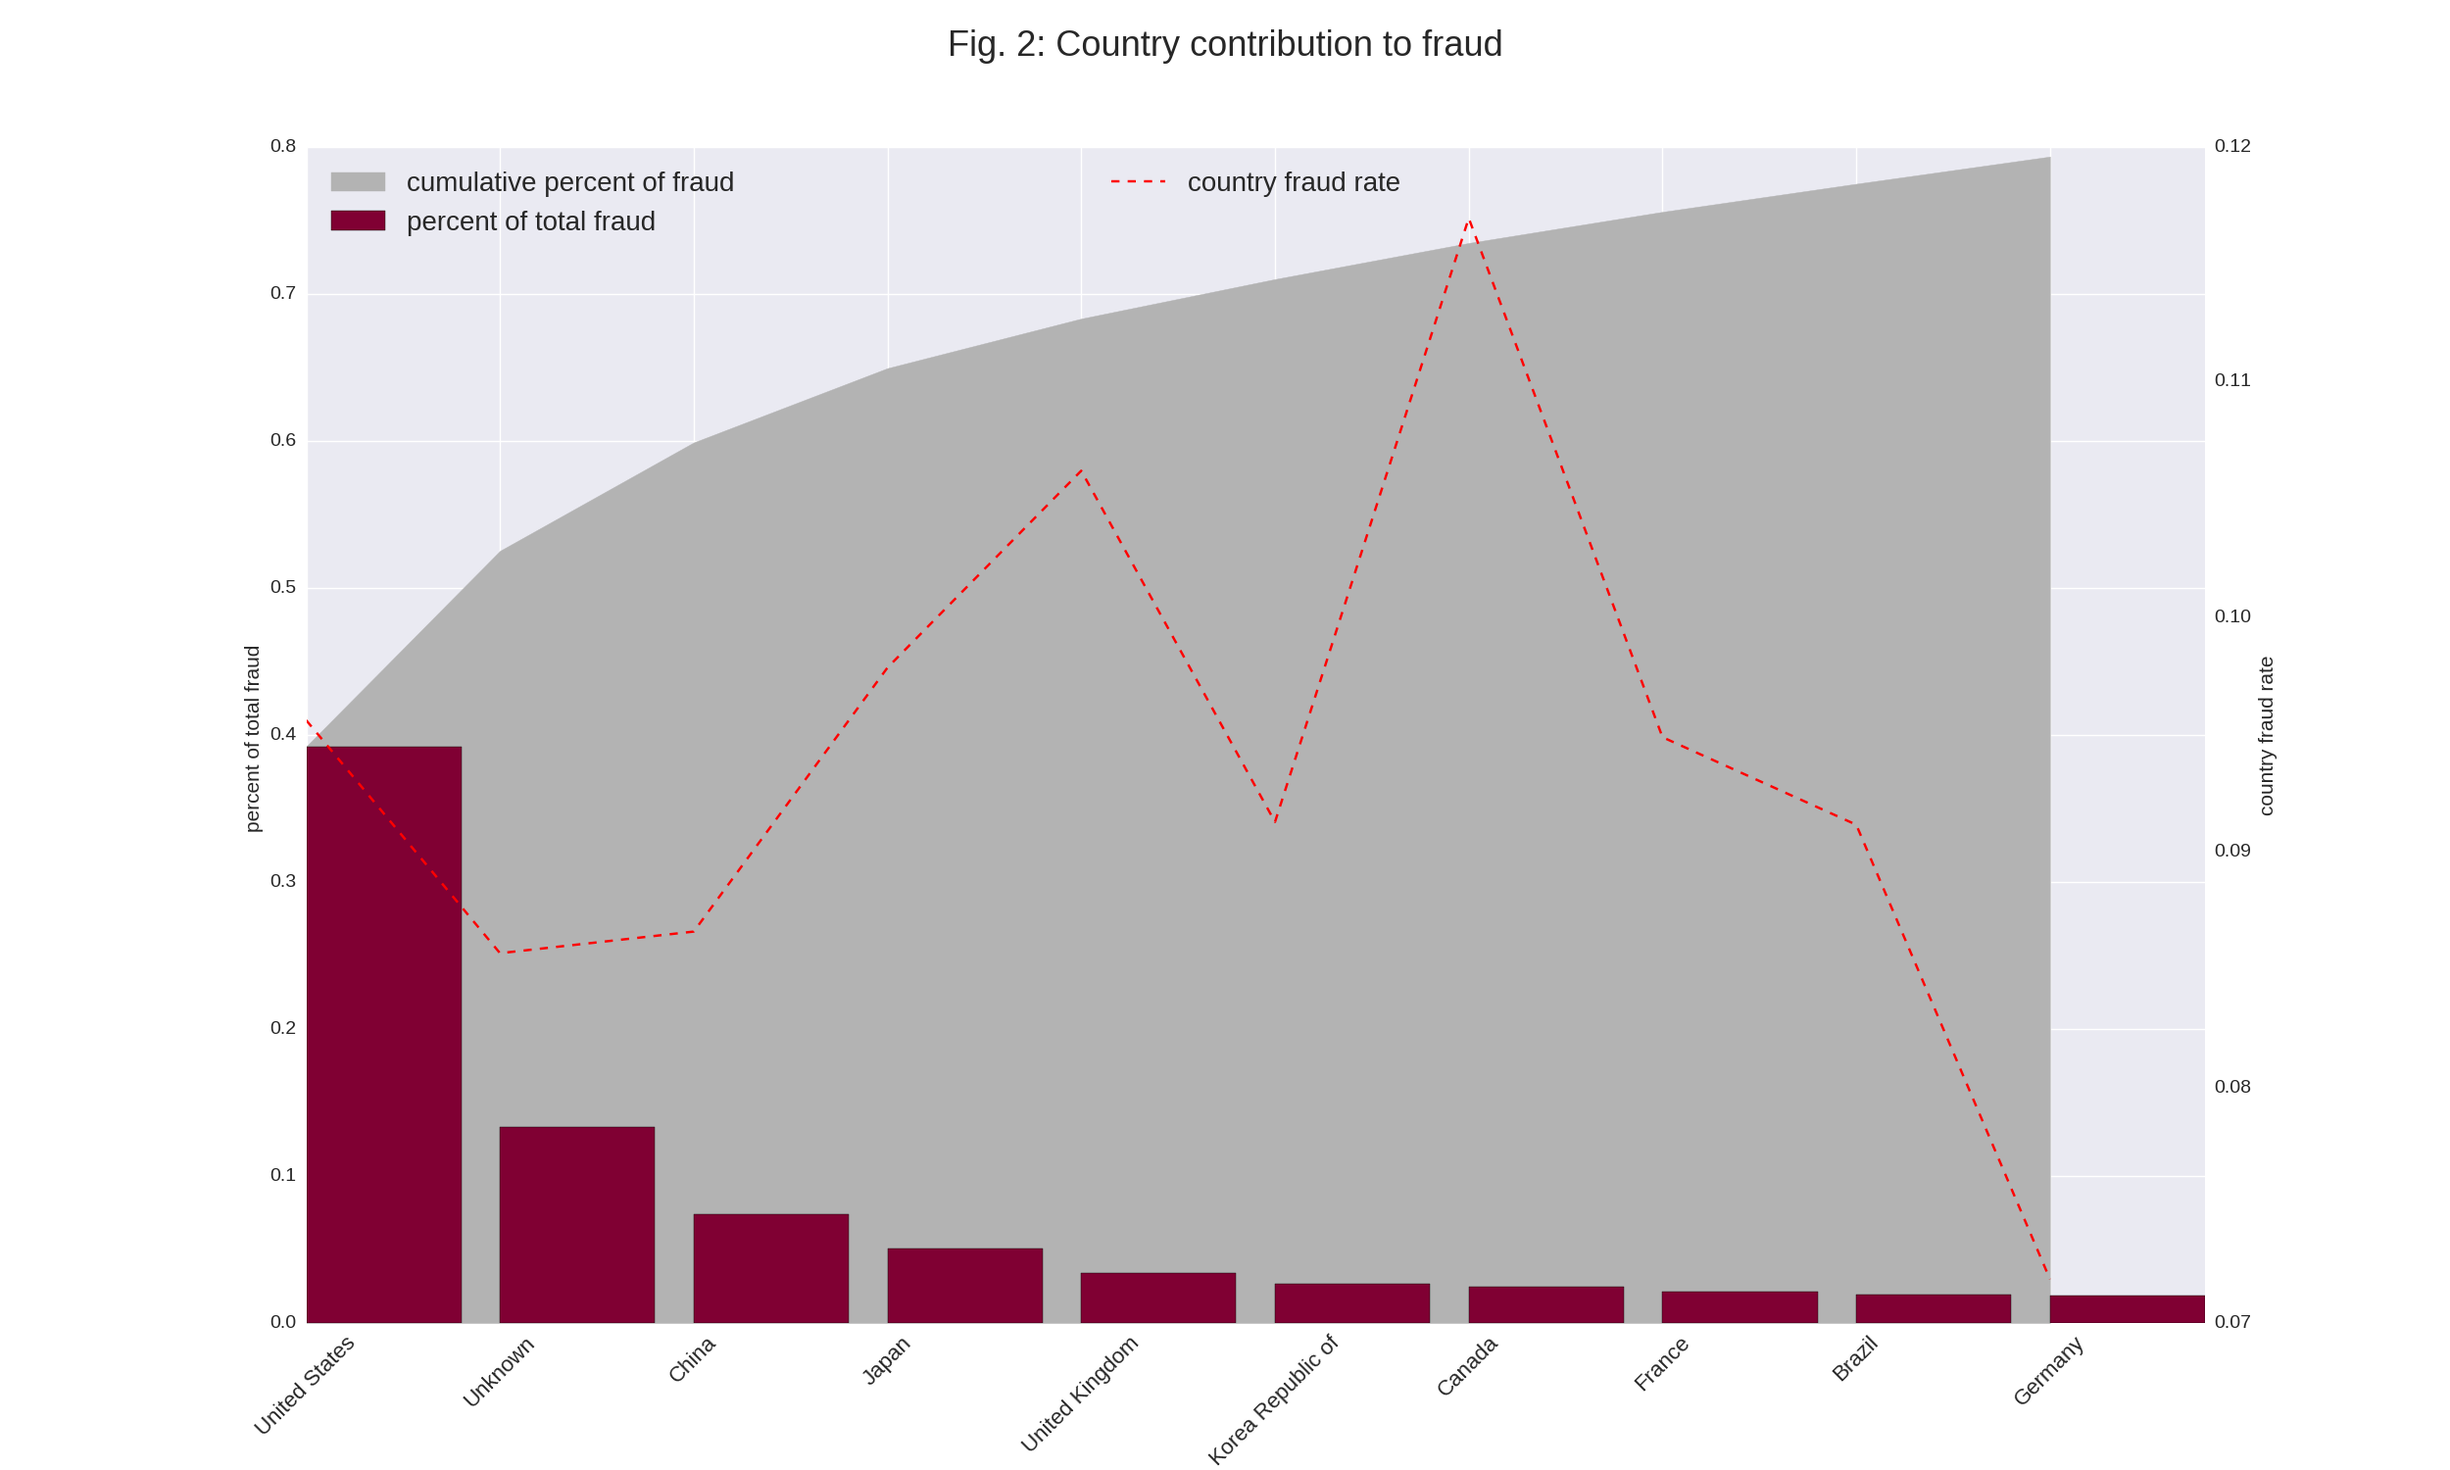
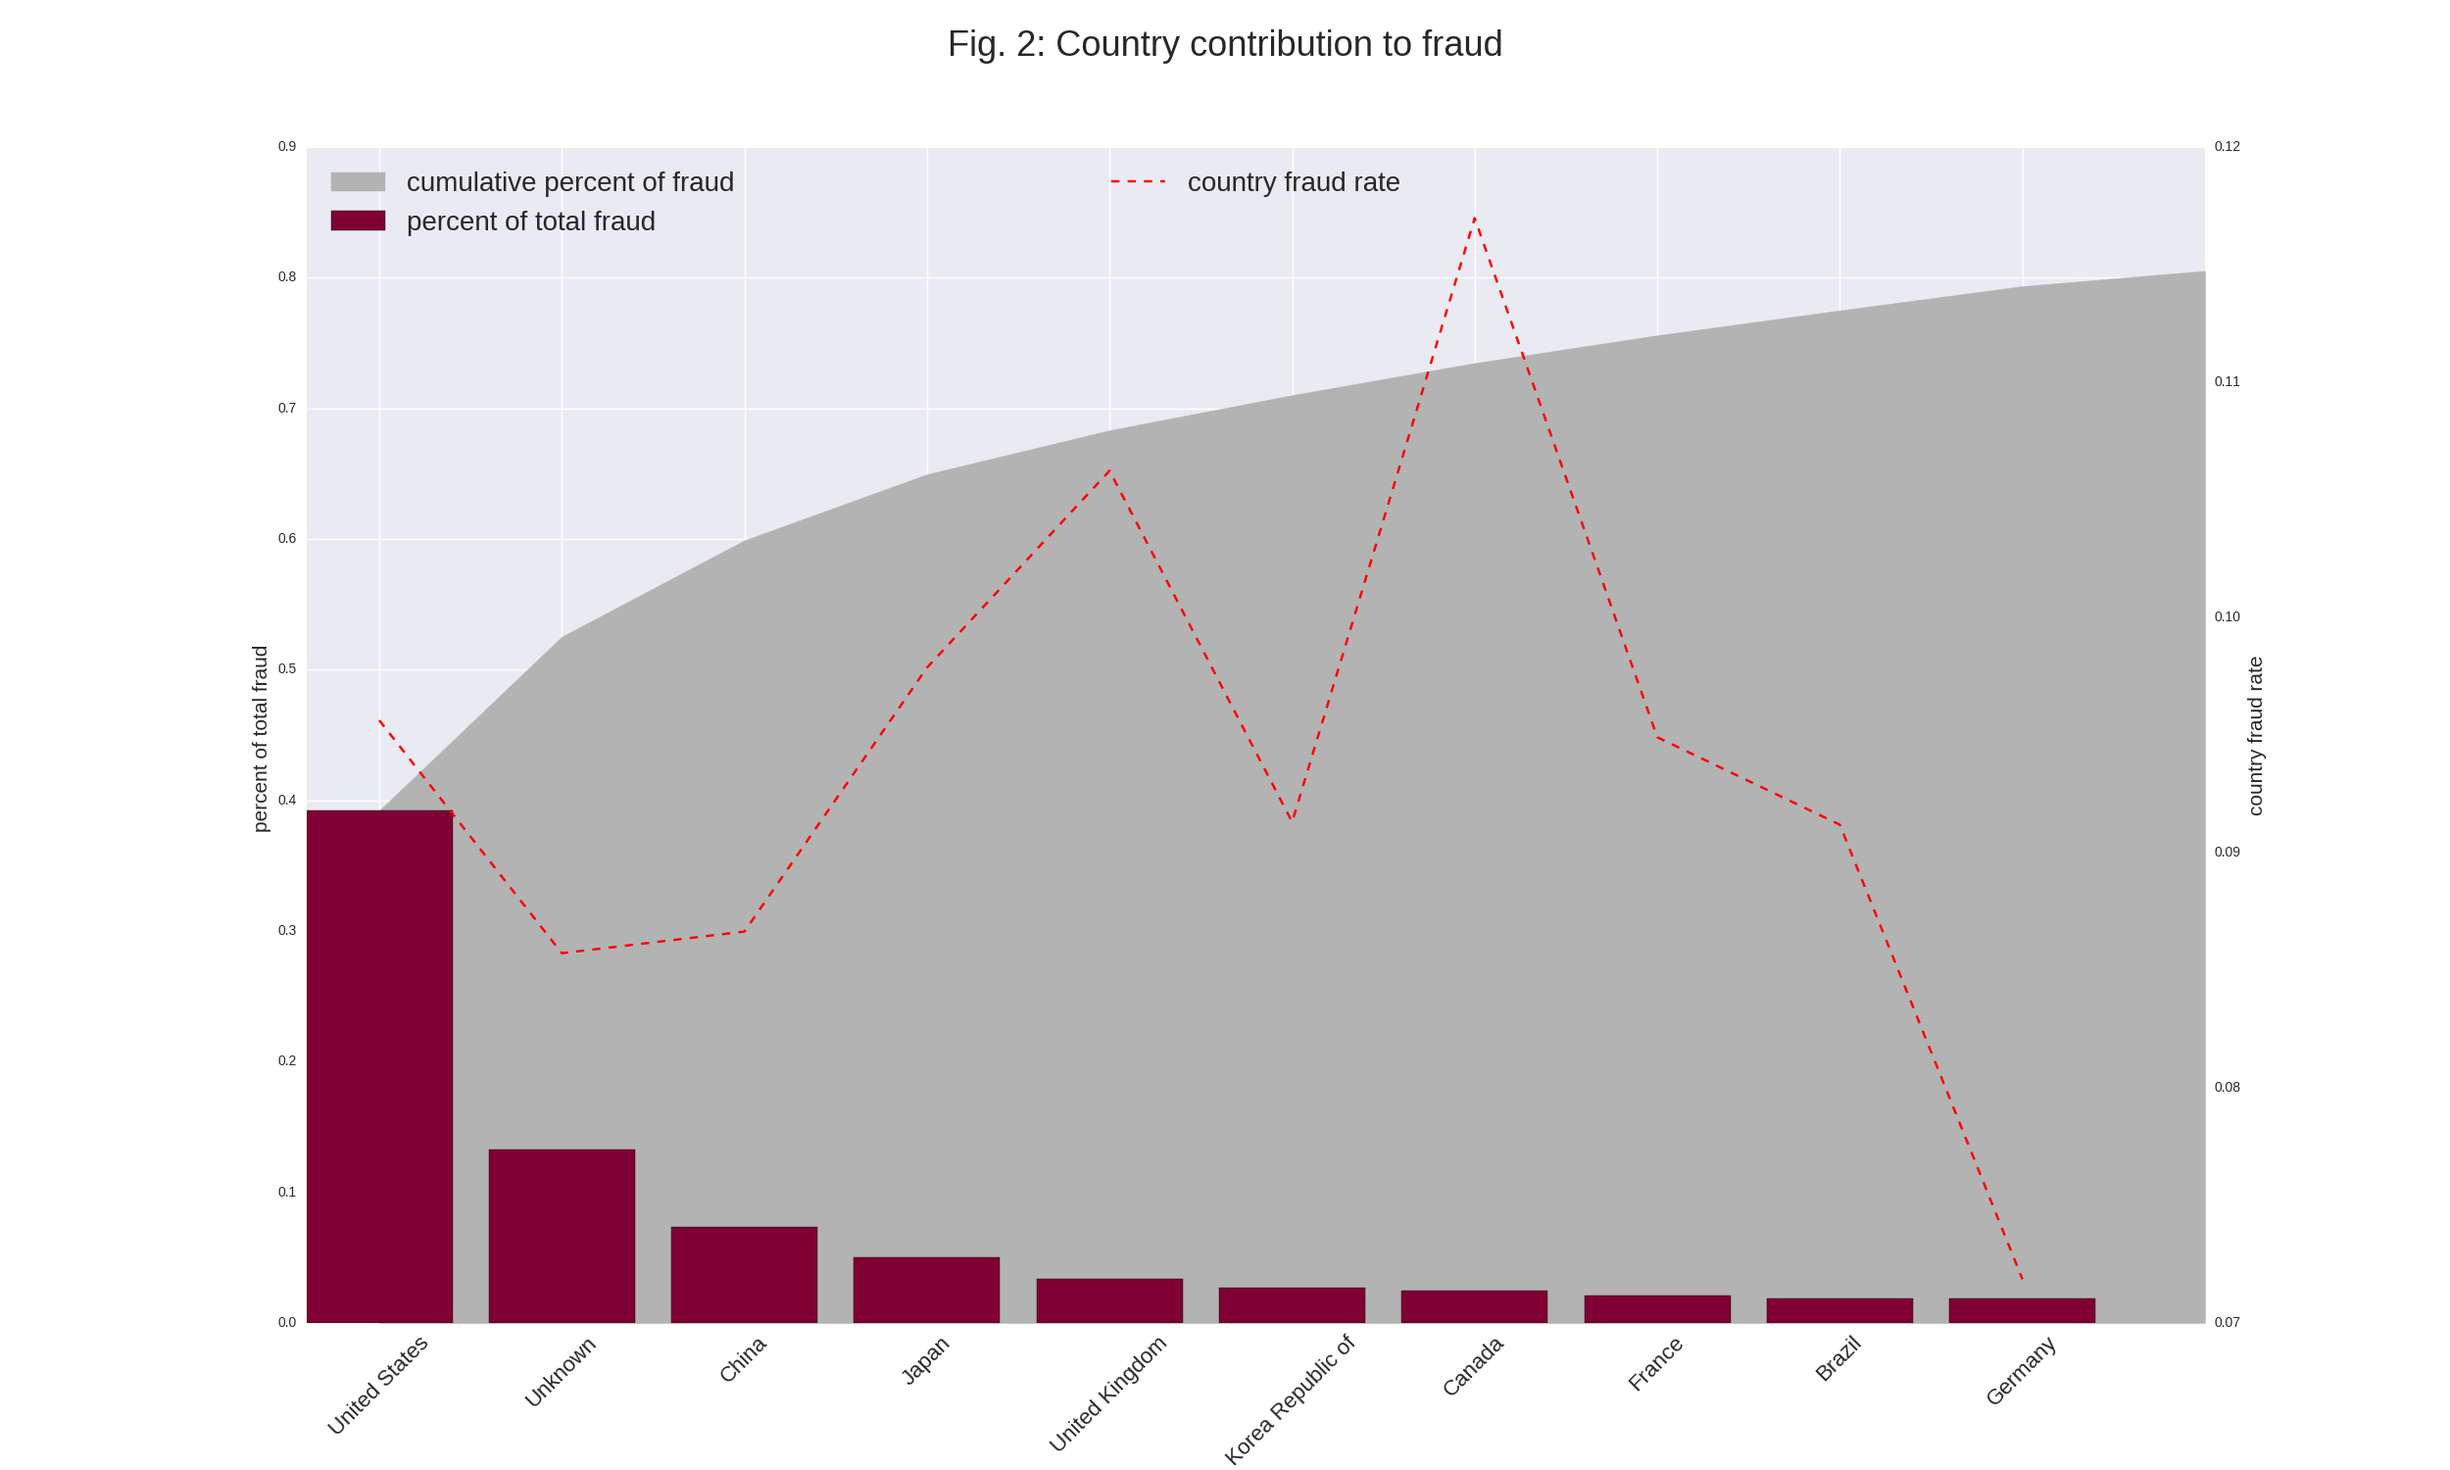
Incorporating James' comments

diff --git a/eda.py b/eda.py
@@ -113,10 +113,10 @@ def plot_country_fraud():
     ax = f.add_subplot(111)
     ax.set_ylabel('percent of total fraud ', fontsize=15)
     # ax.plot(np.linspace(start=0,stop=19,num=20),countries['cum_percent'][:top].values)
-    ax.fill_between(range(top), countries['cum_percent'][:top].values, label='cumulative percent of fraud',
+    ax.fill_between(np.arange(0,top+1,1), countries['cum_percent'][:top+1].values, label='cumulative percent of fraud',
                     color=[.7, .7, .7])
 
-    ax.bar(range(top), countries['fraud_percent_total'][:top].values, label='percent of total fraud', color=[.5, 0, .2])
+    ax.bar(np.arange(-.4,top-.4,1), countries['fraud_percent_total'][:top].values, label='percent of total fraud', color=[.5, 0, .2])
     plt.xticks(range(top), countries.index[:top], rotation=45, fontsize=16)
     plt.legend(loc='upper left', fontsize=20)
     ax2 = ax.twinx()
@@ -173,7 +173,9 @@ def heat_maps():
         plt.title('{} vs fraud percent '.format(i), fontsize=22)
 
         sb.set(font_scale=1.4)
-        sb.heatmap(df[['perc']][:20], xticklabels=False)
+
+        sb.heatmap(df[['Country','perc']])
+        #sb.heatmap(df[['perc']][:20], xticklabels=False)
         plt.yticks(fontsize=15, rotation=0)
 
         plt.xlabel('% Fraud', fontsize=15)
@@ -308,11 +310,43 @@ def plot_countries():
                          aggfunc='count', values='user_id', margins=True, margins_name='Total', fill_value=0
                          )
 
+def barplots():
+    '''make pivot tables across several variables to present in seaborn heat map'''
+    d = data()
+    d.load()
+
+    d.clean()
+
+    f = plt.figure(1, figsize=(25, 15))
+    f.suptitle('Figure 1: Transaction fraud vs Category', fontsize=26)
+    ct = 1
+
+    # print d.transact.columns
+    index = [u'source', u'sex', u'Continent', u'account_age_cat', u'age_range', u'purchase_range']
+
+    for i in index:
+        ax = f.add_subplot(2, 3, ct)
+        plt.title('{} vs fraud percent '.format(i), fontsize=22)
+
+        sb.set(font_scale=1.4)
+
+        sb.barplot(x=i,y='class',data=d.transact, order =None)
+        #sb.heatmap(df[['perc']][:20], xticklabels=False)
+        plt.yticks(fontsize=15, rotation=0)
+
+        plt.ylabel('fraud rate', fontsize=20)
+
+        ct += 1
+    plt.subplots_adjust(hspace=.4)
+    plt.show()
+
 
 if __name__ == '__main__':
-    
-    heat_maps()
     plot_country_fraud()
+    exit()
+    barplots()
+
+    heat_maps()
     fraud_histgram()
     classifier_costs()
     classifier()

diff --git a/Analysis.md b/Analysis.md
@@ -3,11 +3,11 @@
 
 ##Introduction
 
-Starting with a dataset of about 151,000 unique customer transactions, I identified about 14,000 transactions that were classified as fraudulent which equates to an overall 9.4% fraud rate.  There was an additional dataset providing a mapping from the ip address to the customer country.  By joining these two datasets, I was able to match about 130,000 customers to their origin country.  About 22,000 remain unknown.  
+Starting with a dataset of about 151,000 unique customer transactions, I identified about 14,000 transactions that were classified as fraudulent which equates to an overall 9.4% fraud rate.  There was an additional dataset providing a mapping from the ip address to the customer country.  By joining these two datasets, I was able to match about 130,000 customers to their origin country.  About 22,000 remain unknown.  From an external source, [http://blog.plsoucy.com/2012/04/iso-3166-country-code-list-csv-sql/](http://blog.plsoucy.com/2012/04/iso-3166-country-code-list-csv-sql/ ), I was able to group countries into continents for a more aggregated analysis.
 
-Next, I looked at fraud rates for segments of the customer population.  One variable of interest was  the age of the customer account.  It would make sense that newer accounts without much history would tend to have a higher proportion of the fraudulent activities.  I calculated the difference between the sign up date and the purchase data, and binned the results into 4 quartiles.  I also binned customer ages into 5 quintiles and purchase value into 4 quartiles.  
+Next, I looked at fraud rates for segments of the customer population.  One variable of interest was  the age of the customer account.  It would make sense that newer accounts without much history would tend to have a higher proportion of the fraudulent activities.  I calculated the difference between the sign up date and the purchase data, and binned the results into quartiles.  I also binned customer ages into quintiles and purchase value into quartiles.  
 
-![Fig 1](./figure_1.png)
+![Fig 1](./figure_1b.png)
 
 Above is Fig. 1 which shows the fraud rate against various measures.  For visualization purposes, I did not calculate statistical significance. Referring to the first graph, referral source, the highest fraud rates were associated with direct targeting of the website.  Males tend to have a higher fraud rate than females.  Accounts with ages between 0 and 25 days have over a 20% fraud rate compared to all other accounts having less than a 16% rate.  There does not seem to be any pattern of fraud over customer age and purchase value.  For location, fraud was more prevalent from Oceana, South America, and Africa.  North America was slightly above the average, wheras Asia and  Europe were below the average rate.  The country vs fraud rate plot shows very high rates for various countries; however their contribution to overall fraud is small due to smaller numbers of transactions.  
   
@@ -29,7 +29,7 @@ The following confusion matrix shows that the costs would be under various predi
                      Prediction                               
 |       |          |False  | True  |
 |--------------|--------|------------|-------|
-|Actual | False | True Negative      | False Positive (-5 admin)|
+|Actual | False | True Negative (0)      | False Positive (-5 admin)|
 |  | True | False Negative (-Purchase Value)| True Positive (-5 admin)|
 
 
